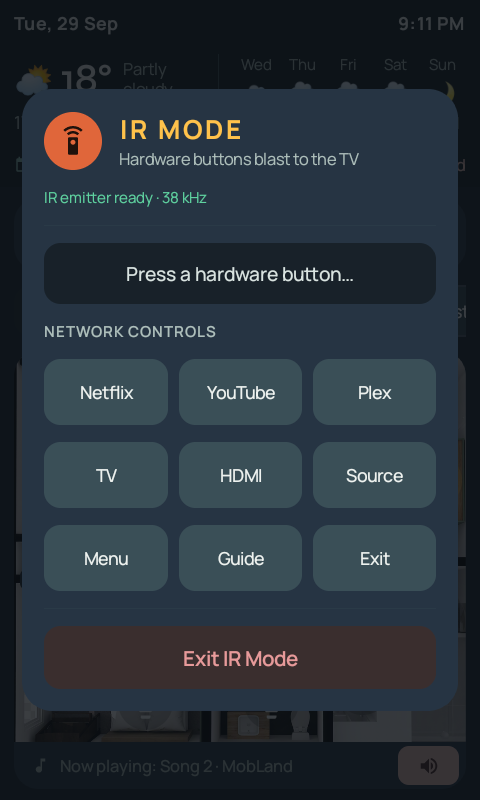
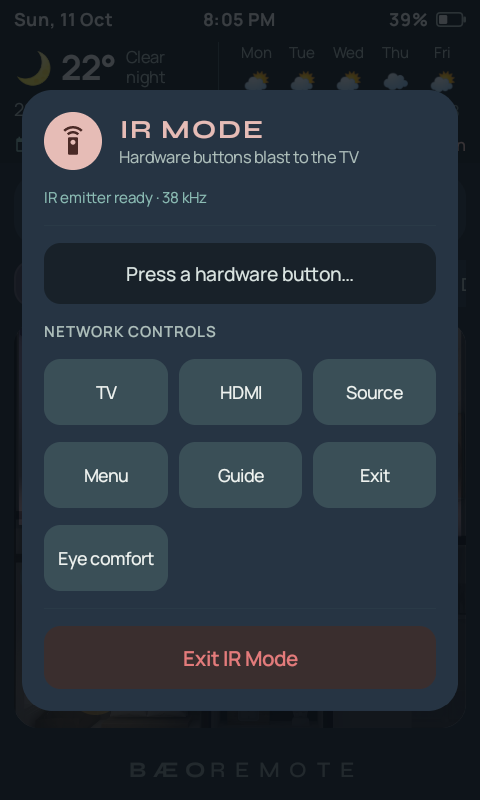
docs: modernize README and refresh screenshots with current UI

diff --git a/app/src/main/java/com/custom/astrion/ui/Theme.kt b/app/src/main/java/com/custom/astrion/ui/Theme.kt
@@ -3,28 +3,9 @@ package com.custom.astrion.ui
 import android.content.Context
 import android.os.VibrationEffect
 import android.os.Vibrator
-import androidx.compose.foundation.shape.RoundedCornerShape
-import androidx.compose.material3.LocalContentColor
-import androidx.compose.material3.LocalTextStyle
-import androidx.compose.material3.MaterialTheme
-import androidx.compose.material3.Shapes
-import androidx.compose.material3.Typography
-import androidx.compose.material3.darkColorScheme
 import androidx.compose.runtime.Composable
-import androidx.compose.runtime.CompositionLocalProvider
-import androidx.compose.runtime.remember
-import androidx.compose.ui.graphics.Color
-import androidx.compose.ui.text.TextStyle
 import androidx.compose.ui.hapticfeedback.HapticFeedback
 import androidx.compose.ui.hapticfeedback.HapticFeedbackType
-import androidx.compose.ui.platform.LocalContext
-import androidx.compose.ui.platform.LocalHapticFeedback
-import androidx.compose.ui.unit.dp
-import androidx.compose.ui.text.font.Font
-import androidx.compose.ui.text.font.FontFamily
-import androidx.compose.ui.text.font.FontWeight
-import com.custom.astrion.R
-import androidx.compose.ui.unit.sp
 
 import com.custom.astrion.ui.theme.AstrionDesignSystem
 import com.custom.astrion.ui.theme.AstrionDesignSystemTheme

diff --git a/app/src/test/java/com/custom/astrion/viewmodel/InputViewModelTest.kt b/app/src/test/java/com/custom/astrion/viewmodel/InputViewModelTest.kt
@@ -12,7 +12,6 @@ import com.custom.astrion.config.DashboardLoader
 import com.custom.astrion.config.HotkeyConfig
 import com.custom.astrion.ha.EntityState
 import com.custom.astrion.ha.HaClient
-import com.custom.astrion.ha.ServiceCall
 import com.custom.astrion.input.HardwareKey
 import com.custom.astrion.input.HardwareKeyRouter
 import com.custom.astrion.ir.IrBlaster
@@ -29,10 +28,8 @@ import kotlinx.coroutines.ExperimentalCoroutinesApi
 import kotlinx.coroutines.cancel
 import kotlinx.coroutines.flow.MutableStateFlow
 import kotlinx.coroutines.test.TestScope
-import kotlinx.coroutines.test.advanceTimeBy
 import kotlinx.coroutines.test.runCurrent
 import kotlinx.coroutines.test.runTest
-import kotlinx.serialization.json.JsonArray
 import kotlinx.serialization.json.JsonObject
 import kotlinx.serialization.json.JsonPrimitive
 import org.junit.After

diff --git a/app/src/main/java/com/custom/astrion/ui/ambient/NowPlayingAmbient.kt b/app/src/main/java/com/custom/astrion/ui/ambient/NowPlayingAmbient.kt
@@ -15,11 +15,9 @@ import androidx.compose.foundation.layout.padding
 import androidx.compose.foundation.shape.RoundedCornerShape
 import androidx.compose.runtime.Composable
 import androidx.compose.runtime.getValue
-import androidx.compose.ui.Alignment
 import androidx.compose.ui.Modifier
 import androidx.compose.ui.draw.clip
 import androidx.compose.ui.graphics.Color
-import androidx.compose.ui.graphics.ImageBitmap
 import androidx.compose.ui.graphics.graphicsLayer
 import androidx.compose.ui.layout.ContentScale
 import androidx.compose.ui.text.TextStyle

diff --git a/app/src/test/java/com/custom/astrion/viewmodel/ViewModelConcurrencyStressTest.kt b/app/src/test/java/com/custom/astrion/viewmodel/ViewModelConcurrencyStressTest.kt
@@ -15,7 +15,6 @@ import com.custom.astrion.ha.ConnectionState
 import com.custom.astrion.ha.EntityState
 import com.custom.astrion.ha.HaClient
 import com.custom.astrion.ha.ServiceCall
-import com.custom.astrion.input.HardwareKey
 import com.custom.astrion.input.HardwareKeyRouter
 import com.custom.astrion.ir.IrBlaster
 import com.custom.astrion.power.MotionWakeController

diff --git a/app/src/main/java/com/custom/astrion/ui/Dashboard.kt b/app/src/main/java/com/custom/astrion/ui/Dashboard.kt
@@ -24,7 +24,6 @@ import androidx.compose.ui.draw.clip
 import androidx.compose.ui.graphics.Brush
 import androidx.compose.ui.graphics.Color
 import androidx.compose.ui.layout.SubcomposeLayout
-import androidx.compose.ui.platform.LocalDensity
 import androidx.compose.ui.layout.layout
 import androidx.compose.ui.text.font.FontWeight
 import androidx.compose.ui.unit.dp

diff --git a/app/src/main/java/com/custom/astrion/ui/ambient/scene/Backdrop.kt b/app/src/main/java/com/custom/astrion/ui/ambient/scene/Backdrop.kt
@@ -5,7 +5,6 @@ import android.graphics.Canvas
 import android.graphics.LinearGradient
 import android.graphics.Paint
 import android.graphics.RadialGradient
-import android.graphics.RectF
 import android.graphics.Shader
 
 /** A cover swatch with roughly where in the cover it sits (0..1 of the cover). */

diff --git a/app/src/test/java/com/custom/astrion/viewmodel/KoinDiAdversarialTest.kt b/app/src/test/java/com/custom/astrion/viewmodel/KoinDiAdversarialTest.kt
@@ -23,7 +23,6 @@ import io.mockk.mockk
 import kotlinx.coroutines.cancel
 import okhttp3.OkHttpClient
 import org.junit.After
-import org.junit.Assert.assertEquals
 import org.junit.Assert.assertNotNull
 import org.junit.Assert.assertNotSame
 import org.junit.Assert.assertSame

diff --git a/app/src/test/java/com/custom/astrion/ha/EntityCacheRepositoryAdversarialTest.kt b/app/src/test/java/com/custom/astrion/ha/EntityCacheRepositoryAdversarialTest.kt
@@ -1,6 +1,5 @@
 package com.custom.astrion.ha
 
-import kotlinx.coroutines.Dispatchers
 import kotlinx.coroutines.runBlocking
 import kotlinx.serialization.json.JsonArray
 import kotlinx.serialization.json.JsonNull

diff --git a/README.md b/README.md
@@ -7,12 +7,12 @@ It talks to Home Assistant over the standard WebSocket API, draws whatever
 pages and cards you describe in one JSON file, and lets every physical button
 do whatever you want. It doesn't use Sanytron's cloud or their HA integration.
 
-| Main | Main at night | TV | Climate |
+| Main | Main at night | Volume OSD | Screensaver |
 |---|---|---|---|
-| ![Main page](screenshots/main.png) | ![Main page at night](screenshots/main-night.png) | ![TV page](screenshots/tv-idle.png) | ![Climate page](screenshots/climate.png) |
+| ![Main page](screenshots/main.png) | ![Main page at night](screenshots/main-night.png) | ![Volume OSD](screenshots/volume-osd.png) | ![Screensaver](screenshots/screensaver.png) |
 
 It runs every day on two HA100s. Releases are listed in
-[`CHANGELOG.md`](CHANGELOG.md).
+[`CHANGELOG.md`](CHANGELOG.md). An architectural comparison and migration guide is in [`docs/COMPARISON.md`](docs/COMPARISON.md).
 
 ---
 
@@ -24,9 +24,7 @@ style that HA and CSS can't change, and the card list is compiled into the APK,
 so you can't add to it. A real HA dashboard in a WebView (Fully Kiosk, the
 Companion app) is far too slow on the HA100's 2015-era MT6580 with 1 GB of RAM.
 
-This app owns the whole rendering layer instead. Each card is plain Jetpack
-Compose, and adding a new card type takes three small steps
-([below](#add-a-card-type)).
+This app owns the whole rendering layer instead with a modernized **MVI (Model-View-Intent) architecture**, **Koin Dependency Injection**, and lightweight tactile Jetpack Compose components. Adding a new card type takes three small steps ([below](#add-a-card-type)).
 
 ---
 
@@ -35,8 +33,12 @@ Compose, and adding a new card type takes three small steps
 - **Main page.** The date, time, weather now and for five days, your next
   calendar entry and next alarm. Below that: a one-tap door lock, scene pills
   (the last one used glows) and a live floor plan with tappable lights, mmWave
-  presence dots and the robot vacuum. A now-playing and mute strip runs along
-  the bottom.
+  presence dots and the robot vacuum. A fixed, anchored **BÆO** wordmark with
+  letter-spaced page suffixes anchors the footer.
+- **TV-Style Floating Volume Popup (OSD).** Changing volume or muting on the
+  remote brings up an instant TV-style floating capsule showing speaker name,
+  mute status, volume percentage, and an animated draggable slider that smoothly
+  auto-dismisses.
 - **Lit rooms.** The floor plan glows in each light's real colour and
   brightness. As the sun sets, rooms with nothing on fall gradually into shade,
   and a room with a light on keeps a soft glow. [More below](#lit-rooms).
@@ -54,33 +56,31 @@ Compose, and adding a new card type takes three small steps
 - **Voice.** The remote works as a Home Assistant Assist satellite, using the
   mic button or an optional wake word.
 - **Docked screensaver.** Leave the remote in its dock and after 45 s it
-  shows a big dim clock, what's playing, timers, the next alarm and anything
-  that needs attention. It's warmer and dimmer at night.
+  shows a big dim clock, timers, the next alarm, and what's playing. When media
+  is actively playing, the media section is rendered brighter and crisper with
+  full-contrast art and metadata.
 - **IR Mode.** Tap ☰ and the hardware buttons drive a Samsung TV over the
   remote's own IR emitter.
 - **Every physical button is configurable,** with tap, 1.5 s hold and
   (opt-in) double-tap actions.
-- **Battery-aware.** It lets the screen turn off (the stock app keeps it on
+- **Battery-aware & MT6580 Tuned.** It lets the screen turn off (the stock app keeps it on
   forever), limits the wake word and motion wake once the remote is off its
-  dock, and reports battery to HA. See [`docs/POWER.md`](docs/POWER.md).
+  dock, reports battery to HA, and includes system-level kernel/sysfs scripts
+  for 4-core governor and LMK optimization. See [`docs/POWER.md`](docs/POWER.md) and [`device/tuning/`](device/tuning/).
 
 ### More screenshots
 
 | TV and Plex | Sonos player | Music shelves |
 |---|---|---|
 | ![TV and Plex](screenshots/tv-plex.png) | ![Sonos player](screenshots/sonos-player.png) | ![Music shelves](screenshots/sonos-media.png) |
-| **Plex rows** | **Speaker zones** | **Alert popup** |
-| ![Plex rows](screenshots/tv-plex-rows.png) | ![Speaker zones](screenshots/sonos-group.png) | ![Washer done alert](screenshots/alert-washer.png) |
-| **Docked screensaver** | **Alarm** | **Alarm, snoozed** |
-| ![Screensaver](screenshots/screensaver.png) | ![Alarm ringing](screenshots/alarm-ringing.png) | ![Alarm snoozed](screenshots/alarm-snoozed.png) |
+| **TV idle** | **Speaker zones** | **Alert popup** |
+| ![TV idle](screenshots/tv-idle.png) | ![Speaker zones](screenshots/sonos-group.png) | ![Washer done alert](screenshots/alert-washer.png) |
+| **Plex rows** | **Alarm ringing** | **Alarm, snoozed** |
+| ![Plex rows](screenshots/tv-plex-rows.png) | ![Alarm ringing](screenshots/alarm-ringing.png) | ![Alarm snoozed](screenshots/alarm-snoozed.png) |
 | **IR Mode** | **Light popup** (long-press a light) | **Vacuum popup** |
 | ![IR Mode](screenshots/ir-mode.png) | ![Light popup](screenshots/light-control.png) | ![Vacuum popup](screenshots/robovac-control.png) |
 
 ![Hold to stop the alarm](screenshots/alarm-hold-to-stop.gif)
-
-Older captures, in the previous colours: `LD2450-tracking.gif` (mmWave
-presence dots moving on the floor plan), `sonos-control.gif`,
-`robovac-docked.png`, `robovac-kitchen.png` and `light-card.png`.
 
 ---
 
@@ -264,27 +264,31 @@ All source paths are under `app/src/main/java/com/custom/astrion/`.
 
 | Path | Role |
 |---|---|
-| `AstrionApp.kt` | Registers card types; owns the single HA connection |
-| `MainActivity.kt` | Compose host, key dispatch, alarm and alert wake, screensaver and backlight |
-| `ha/` | HA WebSocket client (auth, `subscribe_entities`, `call_service`), entity models, shared HTTP client |
-| `cards/Card.kt` | `CardRenderer` and `CardRegistry`, the extension point |
-| `cards/impl/` | The 29 card types, plus the lit-rooms layer (`LitRooms.kt`) and the light and fan popups |
-| `config/` | Loads `dashboard.json` (`DashboardLoader`), config models, typed feature options |
-| `ui/` | Pager (`Dashboard.kt`), alarm, alert and voice overlays, screensaver, theme and shared card parts |
-| `input/` | Keycode map and tap, hold and double-tap dispatch |
-| `power/` | Dock and battery rules, motion wake |
-| `voice/` | Assist satellite session and its overlay |
-| `ir/` | Samsung IR encoder over the built-in emitter, and IR Mode |
+| `AstrionApp.kt` | Application entry point; initializes Koin DI, config repository, and card registry |
+| `MainActivity.kt` | Thin Compose host (<200 lines), window manager, permissions, and key router |
+| `viewmodel/` | MVI ViewModels (`DashboardViewModel`, `PowerViewModel`, `InputViewModel`) with Coroutines & StateFlow |
+| `di/` | Lightweight Koin Dependency Injection modules (`ViewModelModule`, `RepositoryModule`, `NetworkModule`, `HardwareModule`) |
+| `ha/` | HA WebSocket client, state caching repository (`EntityCacheRepository`), entity models, HTTP client |
+| `cards/Card.kt` | `CardRenderer` and `CardRegistry`, the card extension points |
+| `cards/impl/` | The 29 card types, lit-rooms layer (`LitRooms.kt`), and popups |
+| `config/` | Reactive configuration repository (`AppConfigRepository`), loader, and feature options |
+| `ui/` | Dashboard host (`DashboardScreen.kt`), pager (`Dashboard.kt`), Volume OSD (`VolumePopup.kt`), screensaver, ambient mode, theme design system |
+| `ui/theme/` | Semantic Design System tokens: surfaces, colors, typography, elevations, states |
+| `input/` | Hardware keycodes, router, dispatcher, and debounced hotkeys |
+| `power/` | Dock/battery state machine and zero-wake accelerometer motion wake |
+| `voice/` | Assist satellite session and overlay |
+| `ir/` | Samsung IR encoder and IR Mode overlay |
 
 Elsewhere in the repo:
 
 | Path | Role |
 |---|---|
-| `device/config/dashboard.json` | Bundled default config |
-| `device/` | On-device scripts that restrict wireless ADB to your admin machine ([`device/README.md`](device/README.md)) |
-| `docs/` | Battery and home-app setup ([`POWER.md`](docs/POWER.md)), companion HA automations ([`HOME_ASSISTANT.md`](docs/HOME_ASSISTANT.md)), alarm spec, IR capture notes, UI critique |
-| `ARCHITECTURE.md` | How the stock app works and why this design follows from it |
-| `scripts/` | Screenshot and screen-recording helpers, the unused-import check |
+| `device/config/dashboard.json` | Bundled default configuration |
+| `device/tuning/` | MediaTek MT6580 kernel and sysfs tuning scripts (`init.mt6580_tuning.sh`, `mt6580_tuning.rc`, `verify_mt6580_tuning.sh`) |
+| `device/` | Wireless ADB security scripts ([`device/README.md`](device/README.md)) |
+| `docs/` | Architectural comparison ([`docs/COMPARISON.md`](docs/COMPARISON.md)), battery/power setup ([`POWER.md`](docs/POWER.md)), companion HA automations ([`HOME_ASSISTANT.md`](docs/HOME_ASSISTANT.md)), ambient now-playing ([`ambient-nowplaying.md`](docs/ambient-nowplaying.md)) |
+| `ARCHITECTURE.md` | Background on stock firmware and design principles |
+| `scripts/` | Screen capture and validation scripts |
 
 ---
 
